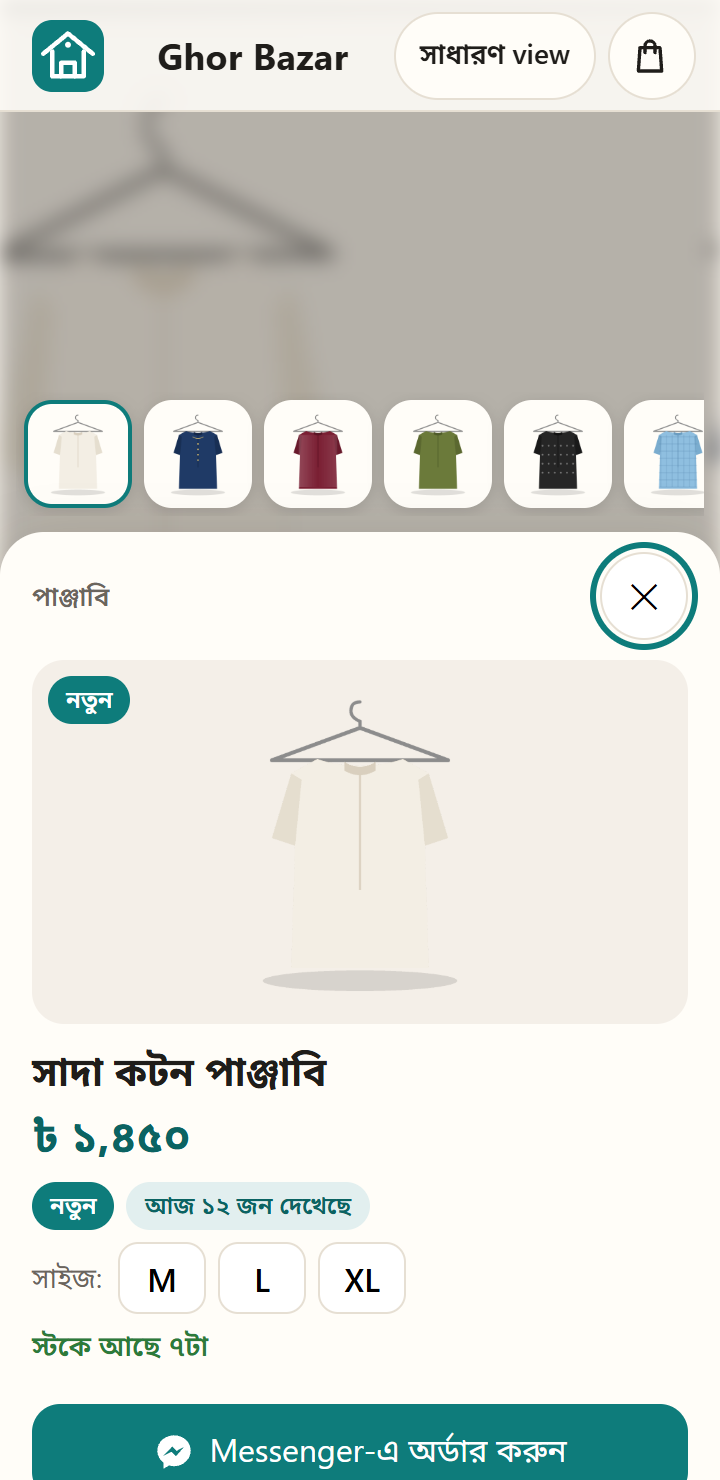
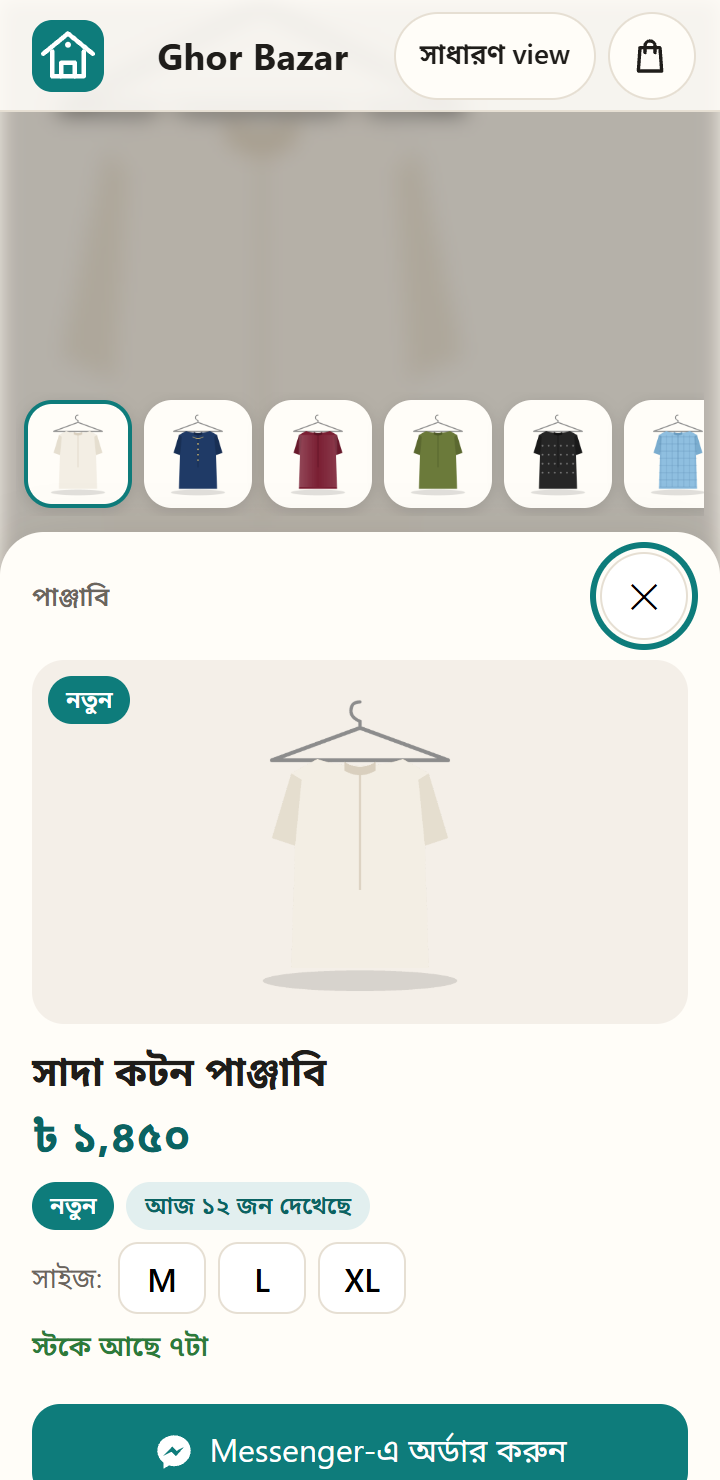
3d-store: verify after the loader change; speed decision (keep 2 s glide); value-shaped secret scan
- Owner decision 2026-10-30: keep the 2 s camera glide and accept ≈ 5 s to the hero wall on Fast 3G
  (measured 4.9–5.2 s run to run; the brief's < 3 s target is not met). The verify gate now fails only
  above 6.5 s and names the decision, so a regression still shows.
- verify.mjs secrets scan: the word scan allow-lists tools/deploy-pages.mjs (it names CLOUDFLARE_* env vars,
  never holds a value); a second scan looks for token-shaped VALUES (EAA…, sk-…, ghp_…, AKIA…, JWT, PEM,
  AIza…, Telegram) across every tracked file.
- docs: VERIFY-REPORT.md, lighthouse-mobile-3d/-fallback.json, screenshots refreshed by this run

diff --git a/apps/3d-store/docs/VERIFY-REPORT.md b/apps/3d-store/docs/VERIFY-REPORT.md
@@ -1,24 +1,24 @@
 # Phase 1 verification report
 
-Generated 2026-10-29T18:25:32.259Z by `npm run verify` (Chrome headless + Lighthouse on the built `dist/`).
+Generated 2026-10-30T11:45:05.250Z by `npm run verify` (Chrome headless + Lighthouse on the built `dist/`).
 
 ## Build size
 
 ✅ dist/ total 739 KB (27 files) < 3 MB
-- assets\index-Cx0FB41L.js: 24.0 KB
+- assets\index-B5z0GRlI.js: 24.0 KB
 - assets\store3d-B4QQs_UA.js: 16.6 KB
 - assets\style-BAtvTMA0.css: 9.6 KB
 - assets\three-j36K6S6W.js: 523.7 KB
 
 ## Loading on simulated Fast 3G (1.6 Mbps down, 750 kbps up, 150 ms RTT)
 
-- transferred (gzip): index-Cx0FB41L.js: 9 KB · style-BAtvTMA0.css: 3 KB · noto-sans-bengali-var.woff2: 105 KB · store3d-B4QQs_UA.js: 7 KB · three-j36K6S6W.js: 130 KB
-- wall clock to hero: 5279 ms
-- first contentful paint: 756 ms
-- loading screen hidden (glide starts): 2855 ms
-- hero wall reached (glide done): 4925 ms
+- transferred (gzip): index-B5z0GRlI.js: 9 KB · style-BAtvTMA0.css: 3 KB · noto-sans-bengali-var.woff2: 105 KB · store3d-B4QQs_UA.js: 7 KB · three-j36K6S6W.js: 130 KB
+- wall clock to hero: 4979 ms
+- first contentful paint: 820 ms
+- loading screen hidden (glide starts): 2587 ms
+- hero wall reached (glide done): 4605 ms
 ✅ first paint < 2.5 s
-❌ loading → glide → hero < 3 s — 4925 ms
+✅ loading → glide → hero < 6.5 s on Fast 3G (brief asked < 3 s; owner accepted ≈ 5 s with the 2 s glide, 2026-10-30) — 4605 ms
 ✅ coach mark visible on first visit
 
 ## Interaction checks (360 × 740, touch)
@@ -82,15 +82,16 @@ Generated 2026-10-29T18:25:32.259Z by `npm run verify` (Chrome headless + Lighth
 
 ### 3D view, GPU WebGL (a phone with a GPU)
 
-- Performance: 80 · Accessibility: 100 · Best practices: 100
-- FCP 0.8 s · LCP 0.8 s · TBT 860 ms · CLS 0.001 · SI 2.6 s
-✅ Lighthouse mobile Performance ≥ 80 (3D view) — 80
+- Performance: 82 · Accessibility: 100 · Best practices: 100
+- FCP 0.8 s · LCP 0.8 s · TBT 740 ms · CLS 0 · SI 2.7 s
+✅ Lighthouse mobile Performance ≥ 80 (3D view) — 82
 
 ### default URL on a CPU-only (SwiftShader) browser → auto 2D fallback
 
-- Performance: 75 · Accessibility: 100 · Best practices: 100
-- FCP 0.8 s · LCP 2.1 s · TBT 1,210 ms · CLS 0.019 · SI 1.7 s
+- Performance: 96 · Accessibility: 100 · Best practices: 100
+- FCP 0.8 s · LCP 2.1 s · TBT 190 ms · CLS 0.001 · SI 2.3 s
 
 ## Secrets scan
 
-✅ git grep token|secret|password|key= → 0 lines, 0 sensitive
+✅ git grep token|secret|password|key= → 40 lines, 0 sensitive
+✅ token-shaped VALUES in tracked files → 0
